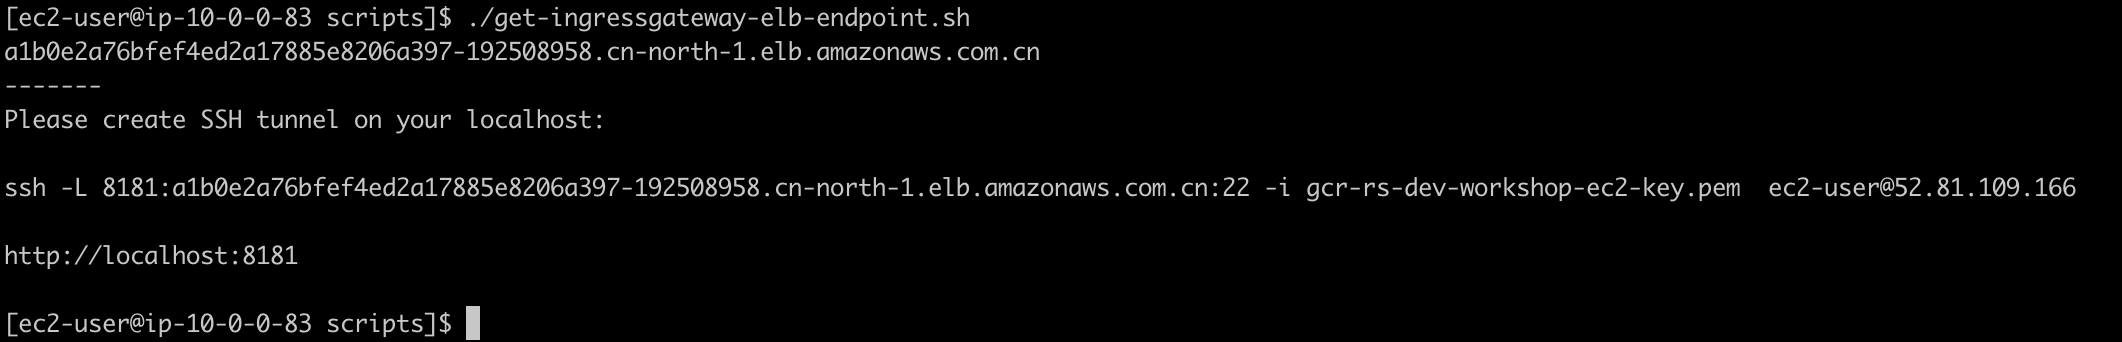
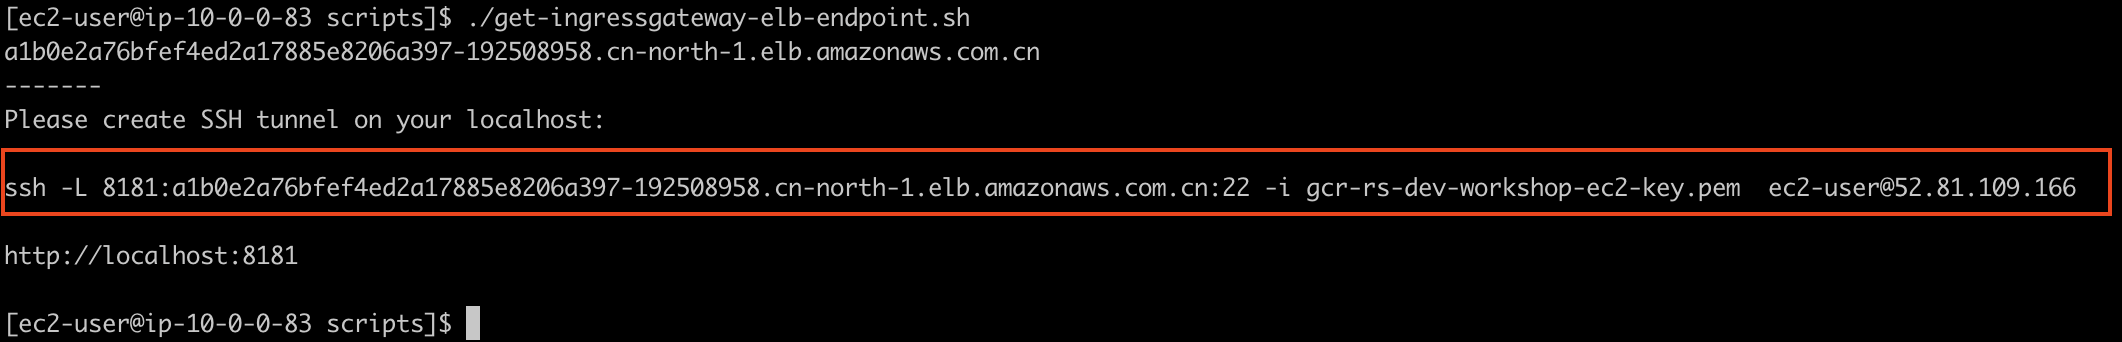
add ssh tunnel

Changed region(s): [[0.0, 0.4094, 0.9953, 0.4678], [0.0, 0.614, 0.9953, 0.6433]]

diff --git a/docs/deploy/online/create-argocd-app/_index.en.md b/docs/deploy/online/create-argocd-app/_index.en.md
@@ -37,7 +37,7 @@ In this step, you will create Argo CD application to deploy all online services 
 
    **Attention**：If this workshop deployed in China Region，you will see the following output and mention you to create SSH Tunnel. Open a new SSH Client in your local environment and goto the Key Pair directory. Copy and Paste the following SSH Command.
    
-   ![Create Tunnel](/images/create-tunnel-argocd.png)
+   ![Create Tunnel](/images/create-tunnel-endpoint.png)
 
     Access ui through browser, it should like below:
 
